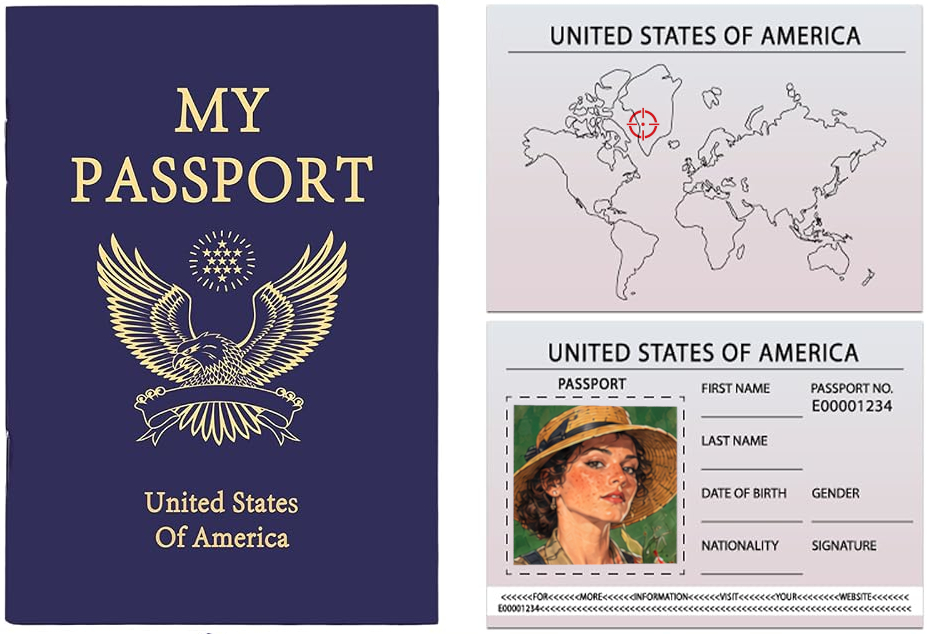
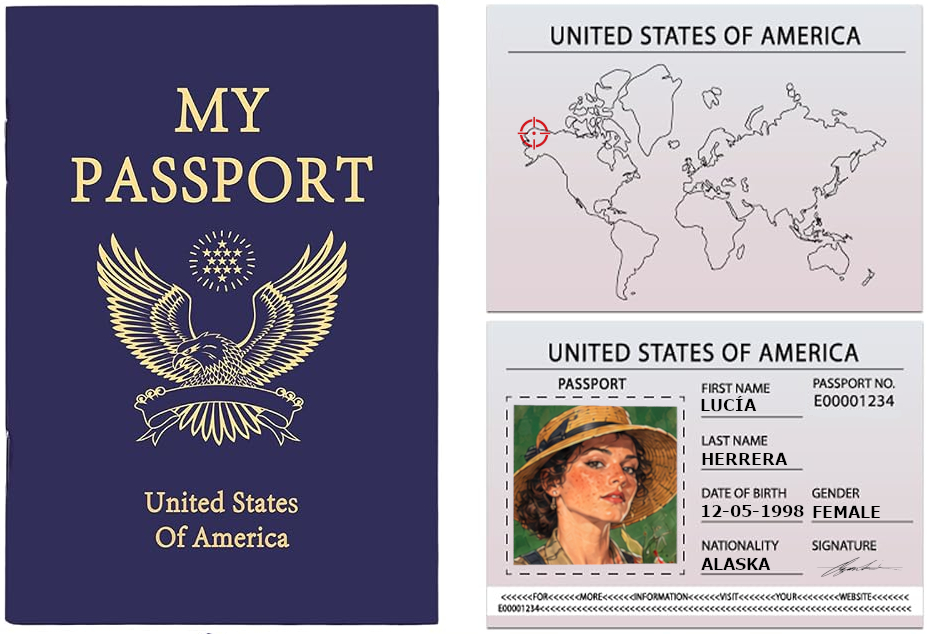
feat: anadir QR y tarjeta pasaporte con veredicto dinamico segun la pericia del personaje

diff --git a/src/js/main.js b/src/js/main.js
@@ -536,13 +536,44 @@ class ScapeRoomApp {
                   <h4 class="card-back-name">${clue.title}</h4>
                 </div>
                 <p class="card-back-bio">${clue.desc}</p>
-                <div class="clue-back-detail">
-                  <div class="clue-detail-tag">
-                    <svg width="12" height="12" viewBox="0 0 24 24" fill="none" stroke="currentColor" stroke-width="2.5"><path d="M12 22s8-4 8-10V5l-8-3-8 3v7c0 6 8 10 8 10z"/><line x1="12" y1="8" x2="12" y2="12"/><line x1="12" y1="16" x2="12.01" y2="16"/></svg>
-                    <span>PRUEBA INCRIMINATORIA</span>
+                ${clue.isPassport ? `
+                  ${(char.id === 4 || char.id === 8) ? `
+                    <div class="clue-back-detail" style="border: 1.5px solid #dc2626; background: rgba(220, 38, 38, 0.08); padding: 8px; border-radius: 4px;">
+                      <div class="clue-detail-tag" style="background: #dc2626; color: #ffffff;">
+                        <svg width="12" height="12" viewBox="0 0 24 24" fill="none" stroke="currentColor" stroke-width="2.5"><path d="M12 22s8-4 8-10V5l-8-3-8 3v7c0 6 8 10 8 10z"/><line x1="12" y1="8" x2="12" y2="12"/><line x1="12" y1="16" x2="12.01" y2="16"/></svg>
+                        <span>DICTAMEN DE EXPERTO (${charData.role.toUpperCase()})</span>
+                      </div>
+                      <p class="clue-detail-text" style="color: #991b1b; font-weight: 600; font-size: 11.5px; line-height: 1.35;">
+                        ${clue.detailExpert}
+                      </p>
+                    </div>
+                  ` : `
+                    <div class="clue-back-detail">
+                      <div class="clue-detail-tag">
+                        <svg width="12" height="12" viewBox="0 0 24 24" fill="none" stroke="currentColor" stroke-width="2.5"><path d="M12 22s8-4 8-10V5l-8-3-8 3v7c0 6 8 10 8 10z"/><line x1="12" y1="8" x2="12" y2="12"/><line x1="12" y1="16" x2="12.01" y2="16"/></svg>
+                        <span>ANÁLISIS DOCUMENTAL</span>
+                      </div>
+                      <p class="clue-detail-text" style="font-size: 11.5px; line-height: 1.35;">
+                        ${clue.detailNormal}
+                      </p>
+                      <button class="btn-toggle-expert-view" data-expert-box="expert-note-${clue.id}" type="button" style="margin-top: 6px; font-size: 10px; color: #4b5563; background: #e5e7eb; border: none; padding: 4px 8px; border-radius: 3px; cursor: pointer;">
+                        Consultar peritaje técnico de un experto
+                      </button>
+                      <div id="expert-note-${clue.id}" style="display: none; margin-top: 6px; padding: 6px; border: 1px dashed #dc2626; background: rgba(220, 38, 38, 0.05); font-size: 10.5px; color: #991b1b;">
+                        <b>INFORME PERICIAL (MILITAR / ABOGADO):</b><br/>
+                        ${clue.detailExpert}
+                      </div>
+                    </div>
+                  `}
+                ` : `
+                  <div class="clue-back-detail">
+                    <div class="clue-detail-tag">
+                      <svg width="12" height="12" viewBox="0 0 24 24" fill="none" stroke="currentColor" stroke-width="2.5"><path d="M12 22s8-4 8-10V5l-8-3-8 3v7c0 6 8 10 8 10z"/><line x1="12" y1="8" x2="12" y2="12"/><line x1="12" y1="16" x2="12.01" y2="16"/></svg>
+                      <span>PRUEBA INCRIMINATORIA</span>
+                    </div>
+                    <p class="clue-detail-text">${clue.detail}</p>
                   </div>
-                  <p class="clue-detail-text">${clue.detail}</p>
-                </div>
+                `}
 
                 ${clue.isPrivate ? `
                   <button class="btn-reshield-sensitive" data-shield-id="shield-${clue.id}" type="button">
@@ -559,11 +590,26 @@ class ScapeRoomApp {
 
       clueSlide.querySelector(".game-card-flip").addEventListener("click", (e) => {
         if (this.hasDragged) return;
-        if (e.target.closest(".btn-reveal-sensitive") || e.target.closest(".btn-reshield-sensitive")) {
+        if (e.target.closest(".btn-reveal-sensitive") || e.target.closest(".btn-reshield-sensitive") || e.target.closest(".btn-toggle-expert-view") || e.target.closest("[id^='expert-note-']")) {
           return;
         }
         e.currentTarget.classList.toggle("is-flipped");
       });
+
+      // Evento para alternar vista de peritaje en el pasaporte si no es experto
+      const btnToggleExpert = clueSlide.querySelector(".btn-toggle-expert-view");
+      if (btnToggleExpert) {
+        btnToggleExpert.addEventListener("click", (e) => {
+          e.stopPropagation();
+          const targetBoxId = btnToggleExpert.getAttribute("data-expert-box");
+          const targetBox = clueSlide.querySelector(`#${targetBoxId}`);
+          if (targetBox) {
+            const isHidden = targetBox.style.display === "none";
+            targetBox.style.display = isHidden ? "block" : "none";
+            btnToggleExpert.textContent = isHidden ? "Ocultar peritaje técnico" : "Consultar peritaje técnico de un experto";
+          }
+        });
+      }
 
       // Eventos para revelar u ocultar la pista confidencial
       if (clue.isPrivate) {

diff --git a/src/js/data/clues.js b/src/js/data/clues.js
@@ -186,6 +186,20 @@ export const CLUES = {
     backBase: "card-back-base-3.png",
     desc: "Pluma estilográfica con plumín de oro de 14 quilates y cuerpo de resina negra con un monograma grabado.",
     detail: "Faltaba en el estuche del despacho principal y fue encontrada entre las sombras del pasillo exterior."
+  },
+  "OBJETO-17": {
+    id: "OBJETO-17",
+    num: 17,
+    letter: "Q",
+    token: "pass7k",
+    title: "Pasaporte",
+    category: "Identidad",
+    isPassport: true,
+    cardImage: "src/assets/images/objetos/card-obj-17.png",
+    backBase: "card-back-base-1.png",
+    desc: "Documento de viaje e identificación aparentemente oficial expedido bajo los sellos de los Estados Unidos.",
+    detailNormal: "A simple vista parece un pasaporte ordinario y legítimo en regla para viajes internacionales y residencia. No obstante, solo un profesional instruido en control fronterizo o leyes consulares sabría comprobar la validez técnica de sus marcas y sellos.",
+    detailExpert: "¡DOCUMENTO FALSIFICADO! Al ser una persona entendida en el tema, detectas de inmediato que este pasaporte ha sido FALSIFICADO: la tipografía del código MRZ está alterada, el sello de Alaska no corresponde a la demarcación federal y los datos biográficos han sido manipulados para ocultar una orden de captura."
   }
 };
 
@@ -195,6 +209,11 @@ export const CLUES = {
 export function resolveClueId(rawInput) {
   if (!rawInput) return null;
   const input = String(rawInput).trim().toLowerCase();
+
+  // Alias directos para el pasaporte
+  if (input === "pasaporte" || input === "passport" || input === "pass" || input === "pass7k") {
+    return "OBJETO-17";
+  }
 
   // 1. Buscar coincidencia por letra única (ej: "b", "c", "k") o frase (ej: "pista b", "sobre b")
   for (const [id, clue] of Object.entries(CLUES)) {

diff --git a/generate_pdf_qr.py b/generate_pdf_qr.py
@@ -112,6 +112,13 @@ OBJECTS_DATA = [
         'category': 'Reliquia',
         'token': 'g8s4z2',
         'desc': 'Pluma estilográfica con plumín de oro e inicial grabada.'
+    },
+    {
+        'num': 17,
+        'title': 'Pasaporte',
+        'category': 'Identidad',
+        'token': 'pass7k',
+        'desc': 'Pasaporte estadounidense con sellos consulares de Alaska.'
     }
 ]
 
